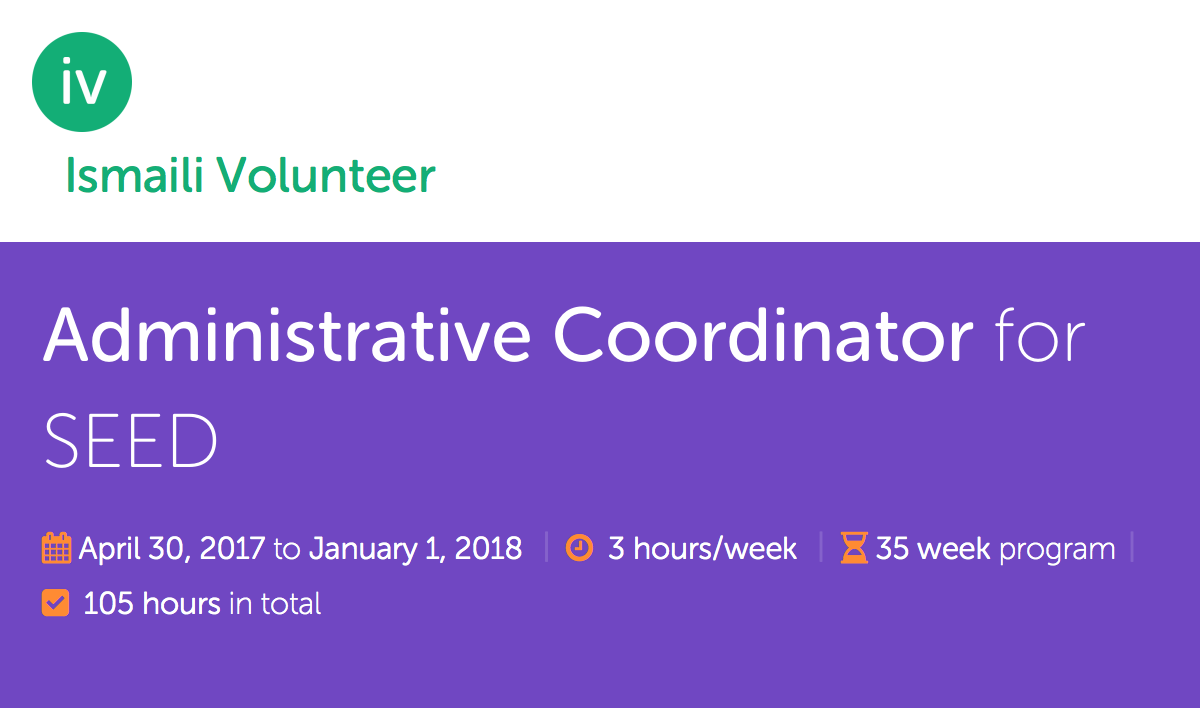
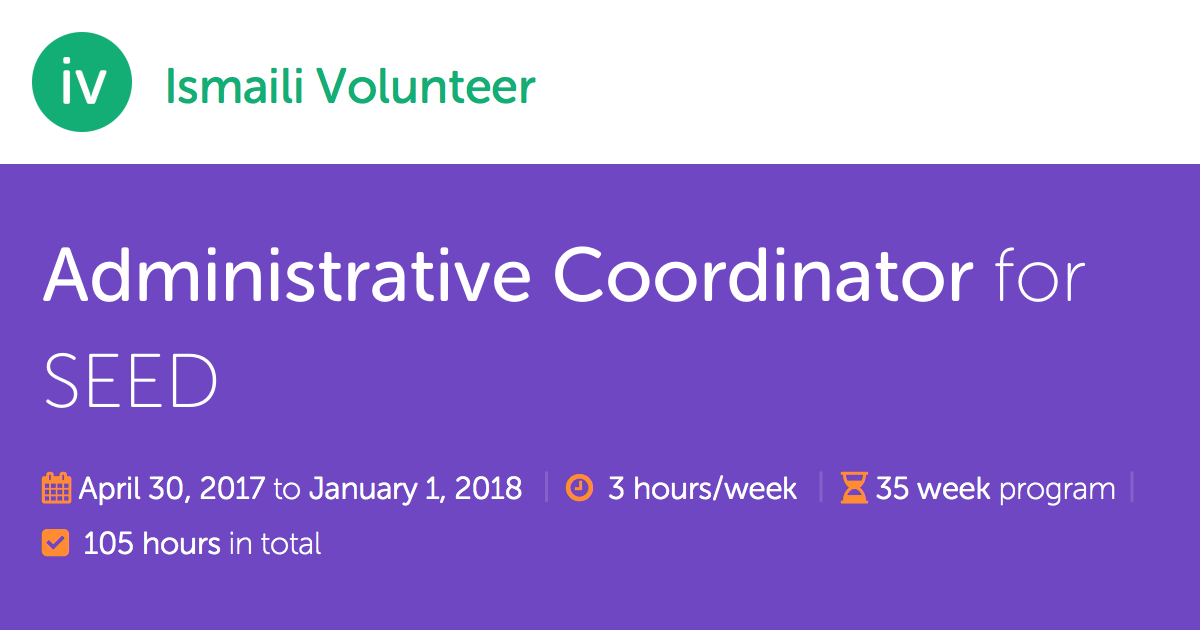
Updates to images and other small things

diff --git a/layouts/listings/single.html b/layouts/listings/single.html
@@ -7,6 +7,7 @@
 {{ end }}
 
 {{ define "social_graph" }}
+	<meta property="fb:app_id" content="{{ .Site.Params.facebookappid }}" />
 	<meta property="og:url" content="{{ .Permalink }}" />
 	<meta property="og:type" content="article" />
 	<meta property="og:title" content="{{ .Params.Position }} for {{ .Params.program }}" />
@@ -19,14 +20,18 @@
 {{ define "main" }}
 	<section class="container title mt-6 mb-6">
 		<h1><strong>{{ .Params.Position }}</strong> for {{ .Params.program }}</h1>
-		<p class="mb-0 font-family-sans-serif">Organized by {{ .Params.organizer }}, {{ .Params.program }} is an initiative of the {{ .Params.org }}</p>
-		{{ partial "listing_meta.html" . }}
+		<ul class="posted-expiry item-meta list-inline font-family-sans-serif">
+			<li class="list-inline-item mb-1">Organized by <em>{{ .Params.organizer }}</em></li>
+			<li class="list-inline-item mb-1">An initiative of the <em>{{ .Params.org }}</em></li>
+			<!-- <li class="list-inline-item mb-1">This opportunity was <em>posted on {{ partial "date_format.html" .Date }}</em>, and will <em>expire on {{ partial "date_format.html" .ExpiryDate }}</em></li> -->
+		</ul>
 	</section>
 	<section class="container content mb-6">
 		<div class="row">
 			<div class="col-lg-10 last-child-mb-0">
 				{{ .Content }}
 				<h4>Time Commitment</h4>
+				{{ partial "listing_meta.html" . }}
 				{{ if isset .Params "commitments" }}
 					<p>If you are not available for some time within this period, please let us know, we'll do our best to accomodate. Your commitments for this program will primarily be:</p>
 					<ul>
@@ -39,9 +44,6 @@
 				{{ end }}
 			</div>
 		</div>
-		<ul class="mt-4 posted-expiry item-meta list-inline font-family-sans-serif">
-			<li class="list-inline-item mb-1">This opportunity was <em>posted on {{ partial "date_format.html" .Date }}</em>, and will <em>expire on {{ partial "date_format.html" .ExpiryDate }}</em></li>
-		</ul>
 	</section>
 	<section class="container apply mb-6">
 		<h2 class="mb-4">Apply</h2>
@@ -54,19 +56,19 @@
 				<div class="form-group row">
 					<label class="col-sm-4 col-form-label required-label" for="name-input">Name</label>
 					<div class="col-sm-8">
-						<input required type="text" id="name-input" name="name" class="form-control" placeholder="Awesome Volunteer">
+						<input required type="text" id="name-input" name="name" class="form-control" placeholder="Your full name">
 					</div>
 				</div>
 				<div class="form-group row">
 					<label class="col-sm-4 col-form-label required-label" for="email-input">Email</label>
 					<div class="col-sm-8">
-						<input required type="email" id="email-input" name="email" class="form-control" placeholder="volunteer@gmail.com">
+						<input required type="email" id="email-input" name="email" class="form-control" placeholder="Your email address">
 					</div>
 				</div>
 				<div class="form-group row">
 					<label class="col-sm-4 col-form-label required-label" for="phone-input">Phone</label>
 					<div class="col-sm-8">
-						<input required type="text" id="phone-input" name="phone" class="form-control" placeholder="+1 (416) 888-9999">
+						<input required type="text" id="phone-input" name="phone" class="form-control" placeholder="Your phone number">
 					</div>
 				</div>
 				<div class="form-group row">
@@ -86,7 +88,7 @@
 				<div class="form-group row">
 					<label class="col-sm-4 col-form-label" for="hearabout-input">How did you hear about this website?</label>
 					<div class="col-sm-8">
-						<input type="text" id="hearabout-input" name="hearabout" class="form-control" placeholder="Announcements in JK">
+						<input type="text" id="hearabout-input" name="hearabout" class="form-control">
 					</div>
 				</div>
 				<div class="form-group row">

diff --git a/layouts/partials/listing_meta.html b/layouts/partials/listing_meta.html
@@ -1,6 +1,6 @@
 <ul class="item-meta list-inline font-family-sans-serif">
 	{{ if isset .Params "proqualifications"}}
-		<li class="list-inline-item"><i class="fa fa-certificate mr-2" aria-hidden="true"></i><em>Pro-qualifications</em> required</li>
+		<li class="list-inline-item"><i class="fa fa-certificate mr-2" aria-hidden="true"></i><em>Professional qualifications</em> required</li>
 	{{ end }}
 	<li class="list-inline-item"><i class="fa fa-calendar mr-2" aria-hidden="true"></i><em>{{ partial "date_format.html" .Params.startdate }}</em> to <em>{{ partial "date_format.html" .Params.enddate }}</em></li>
 	{{ if isset .Params "hoursperweek"}}
@@ -13,11 +13,11 @@
 		</em></li>
 	{{ end }}
 	<li class="list-inline-item"><i class="fa fa-hourglass-half mr-2" aria-hidden="true"></i><em>{{ .Params.weeksduration }} week</em> program</li>
-	<li class="list-inline-item"><i class="fa fa-check-square mr-2" aria-hidden="true"></i><em>
+	<!-- <li class="list-inline-item"><i class="fa fa-check-square mr-2" aria-hidden="true"></i><em>
 		{{ if eq .Params.totalhours 1 }}
 			{{ .Params.totalhours }} hour
 		{{ else }}
 			{{ .Params.totalhours }} hours
 		{{ end }}
-	</em> in total</li>
+	</em> in total</li> -->
 </ul>

diff --git a/styles/_base.scss b/styles/_base.scss
@@ -359,7 +359,8 @@ $input-border-focus:             lighten($brand-primary, 25%);
 $input-box-shadow-focus:         $input-box-shadow, rgba($input-border-focus, .6);
 $input-color-focus:              $input-color;
 
-$input-color-placeholder:        $gray-light;
+$input-color-placeholder:        $gray-lighter;
+$input-font-style-placeholder:   italics;
 
 $input-padding-x-sm:             .5rem;
 $input-padding-y-sm:             .25rem;

diff --git a/styles/_listing-meta.scss b/styles/_listing-meta.scss
@@ -1,9 +1,10 @@
 .item-meta {
-	color: $gray-lighter;
+	color: lighten($gray-light, 20%);
 	li {
 		margin-right: 0.4rem;
 		em {
 			color: $gray-light;
+			font-weight: 400;
 			font-style: normal;
 		}
 		i {

diff --git a/layouts/thankyou/single.html b/layouts/thankyou/single.html
@@ -1,5 +1,6 @@
 {{ define "main" }}
 	<section class="container my-6 text-center">
 		<h1>{{ .Title }}</h1>
+		<p>The organizers will be in touch.</p>
 	</section>
 {{ end }}

diff --git a/styles/listing.scss b/styles/listing.scss
@@ -30,5 +30,5 @@ section.apply {
 }
 
 .posted-expiry {
-	font-size: $font-size-sm;
+	// font-size: $font-size;
 }

diff --git a/content/submit.md b/content/submit.md
@@ -1,5 +1,6 @@
 ---
 title: Would you like your program to be listed? Get in touch!
+draft: true
 type: submit
 formdata:
   to: ismailivolunteercanada@gmail.com

diff --git a/content/about.md b/content/about.md
@@ -1,4 +1,5 @@
 ---
 title: Ismaili Volunteer
+draft: true
 type: about
 ---

diff --git a/content/thankyou/submit.md b/content/thankyou/submit.md
@@ -1,3 +1,4 @@
 ---
 title: Thank you!
+draft: true
 ---
